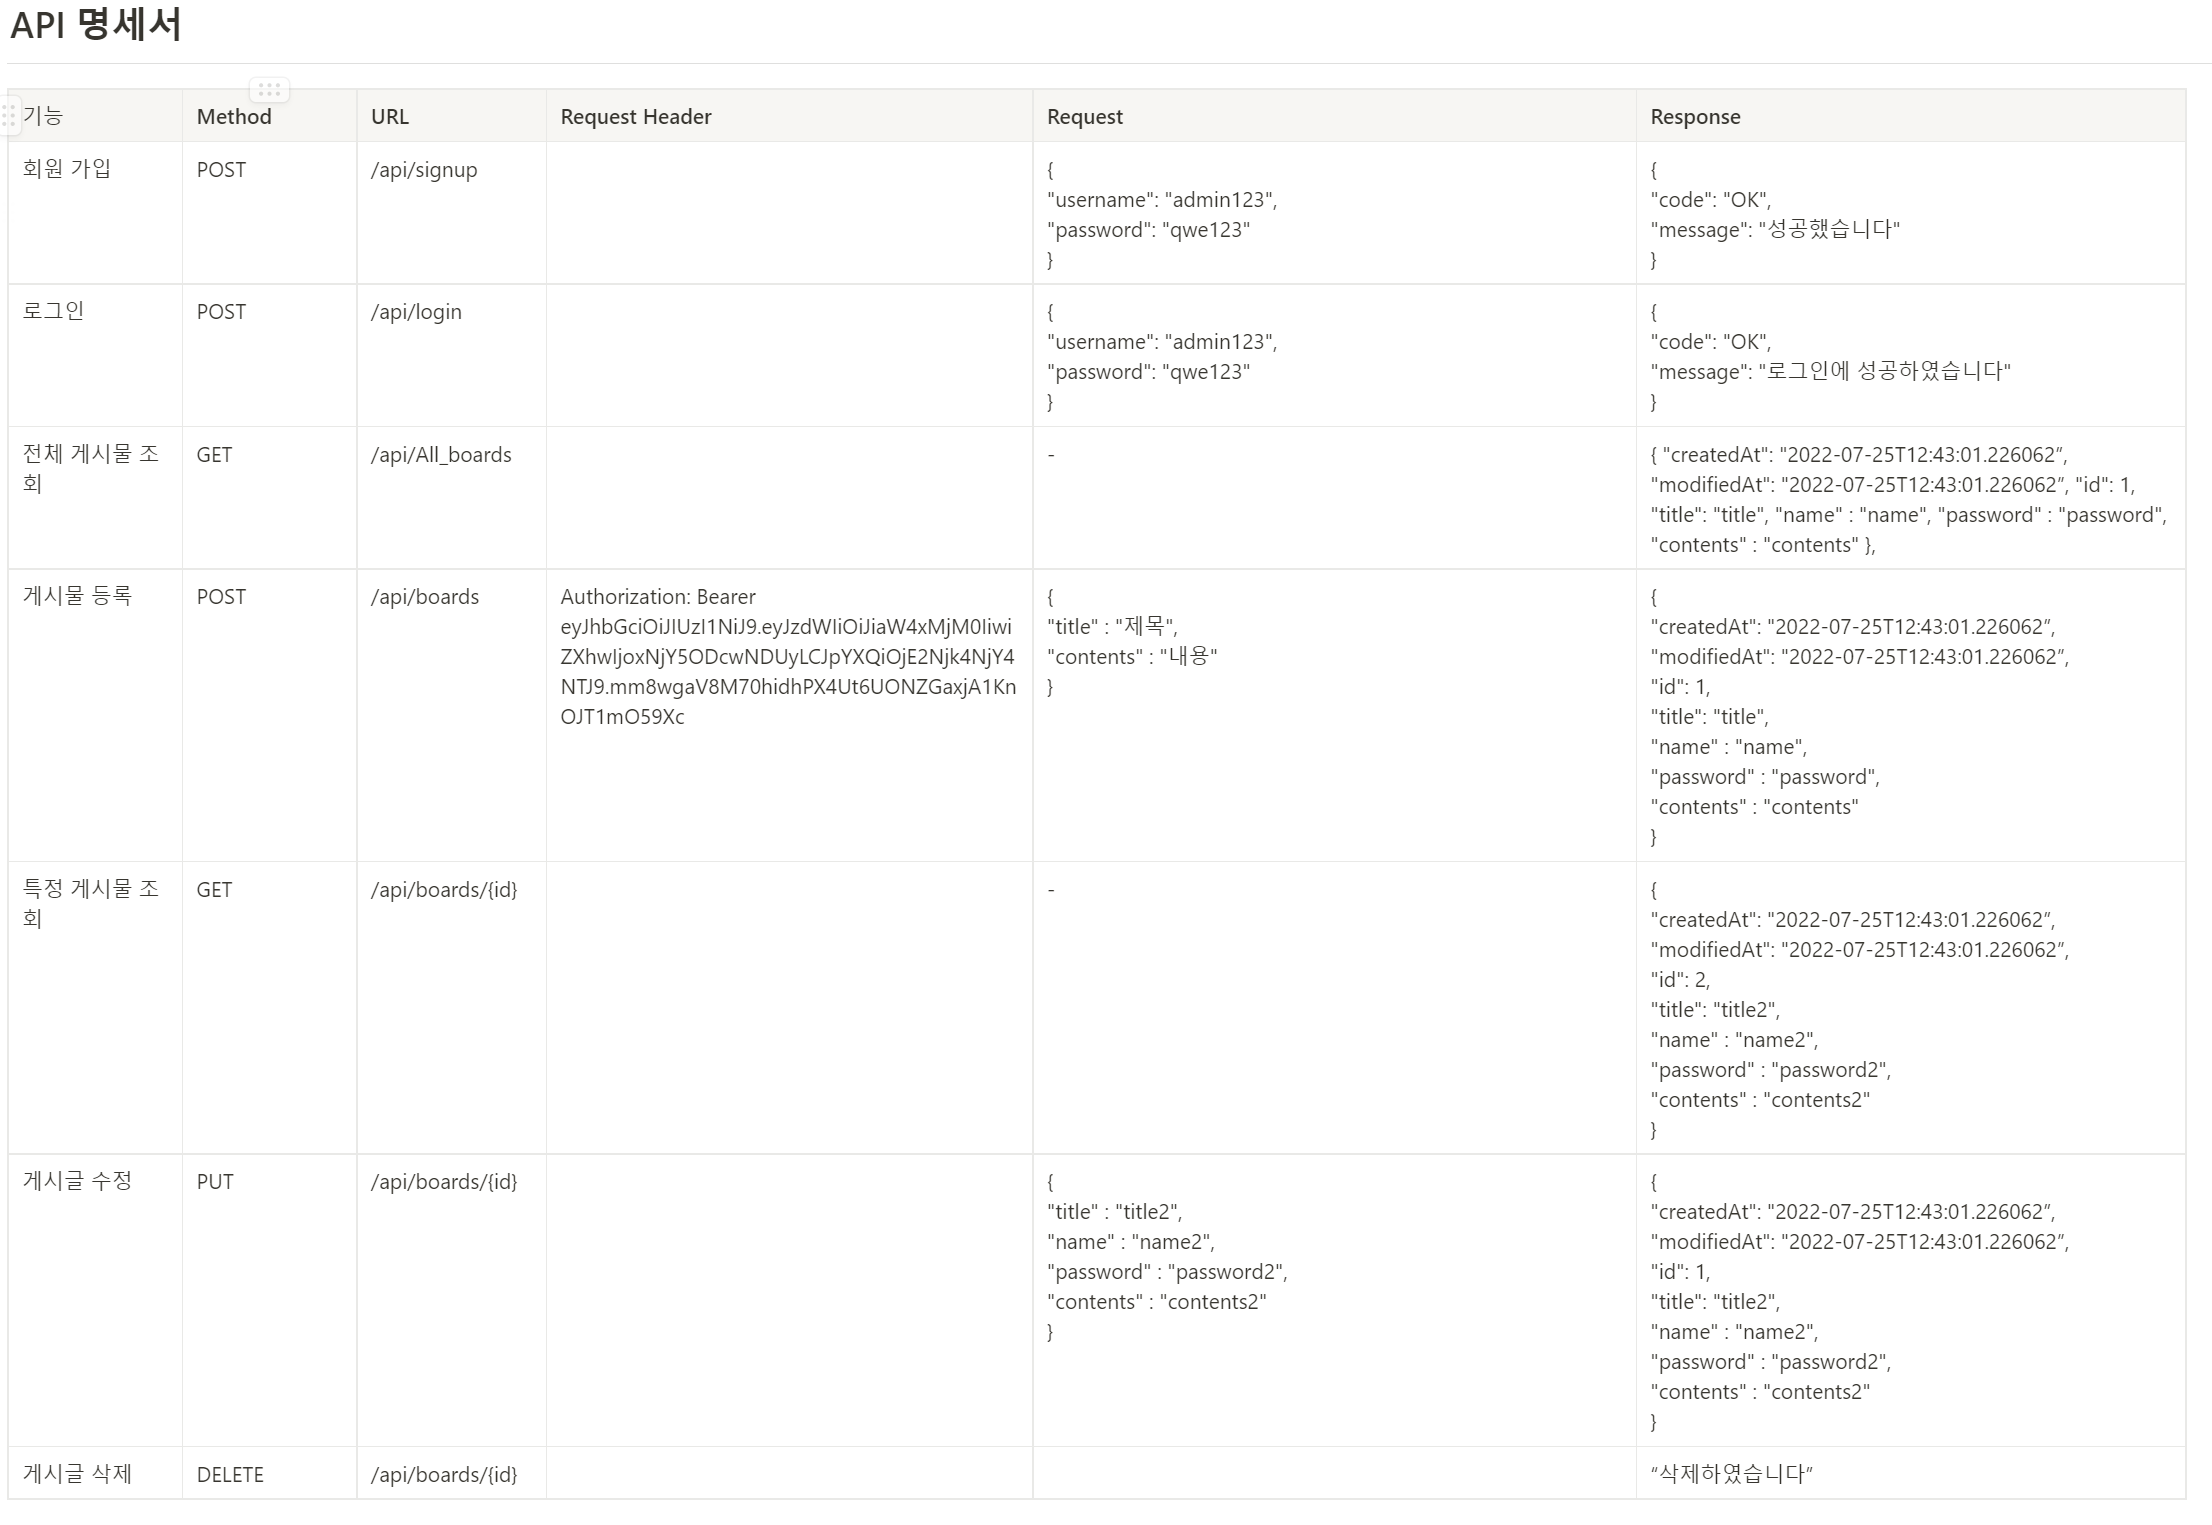
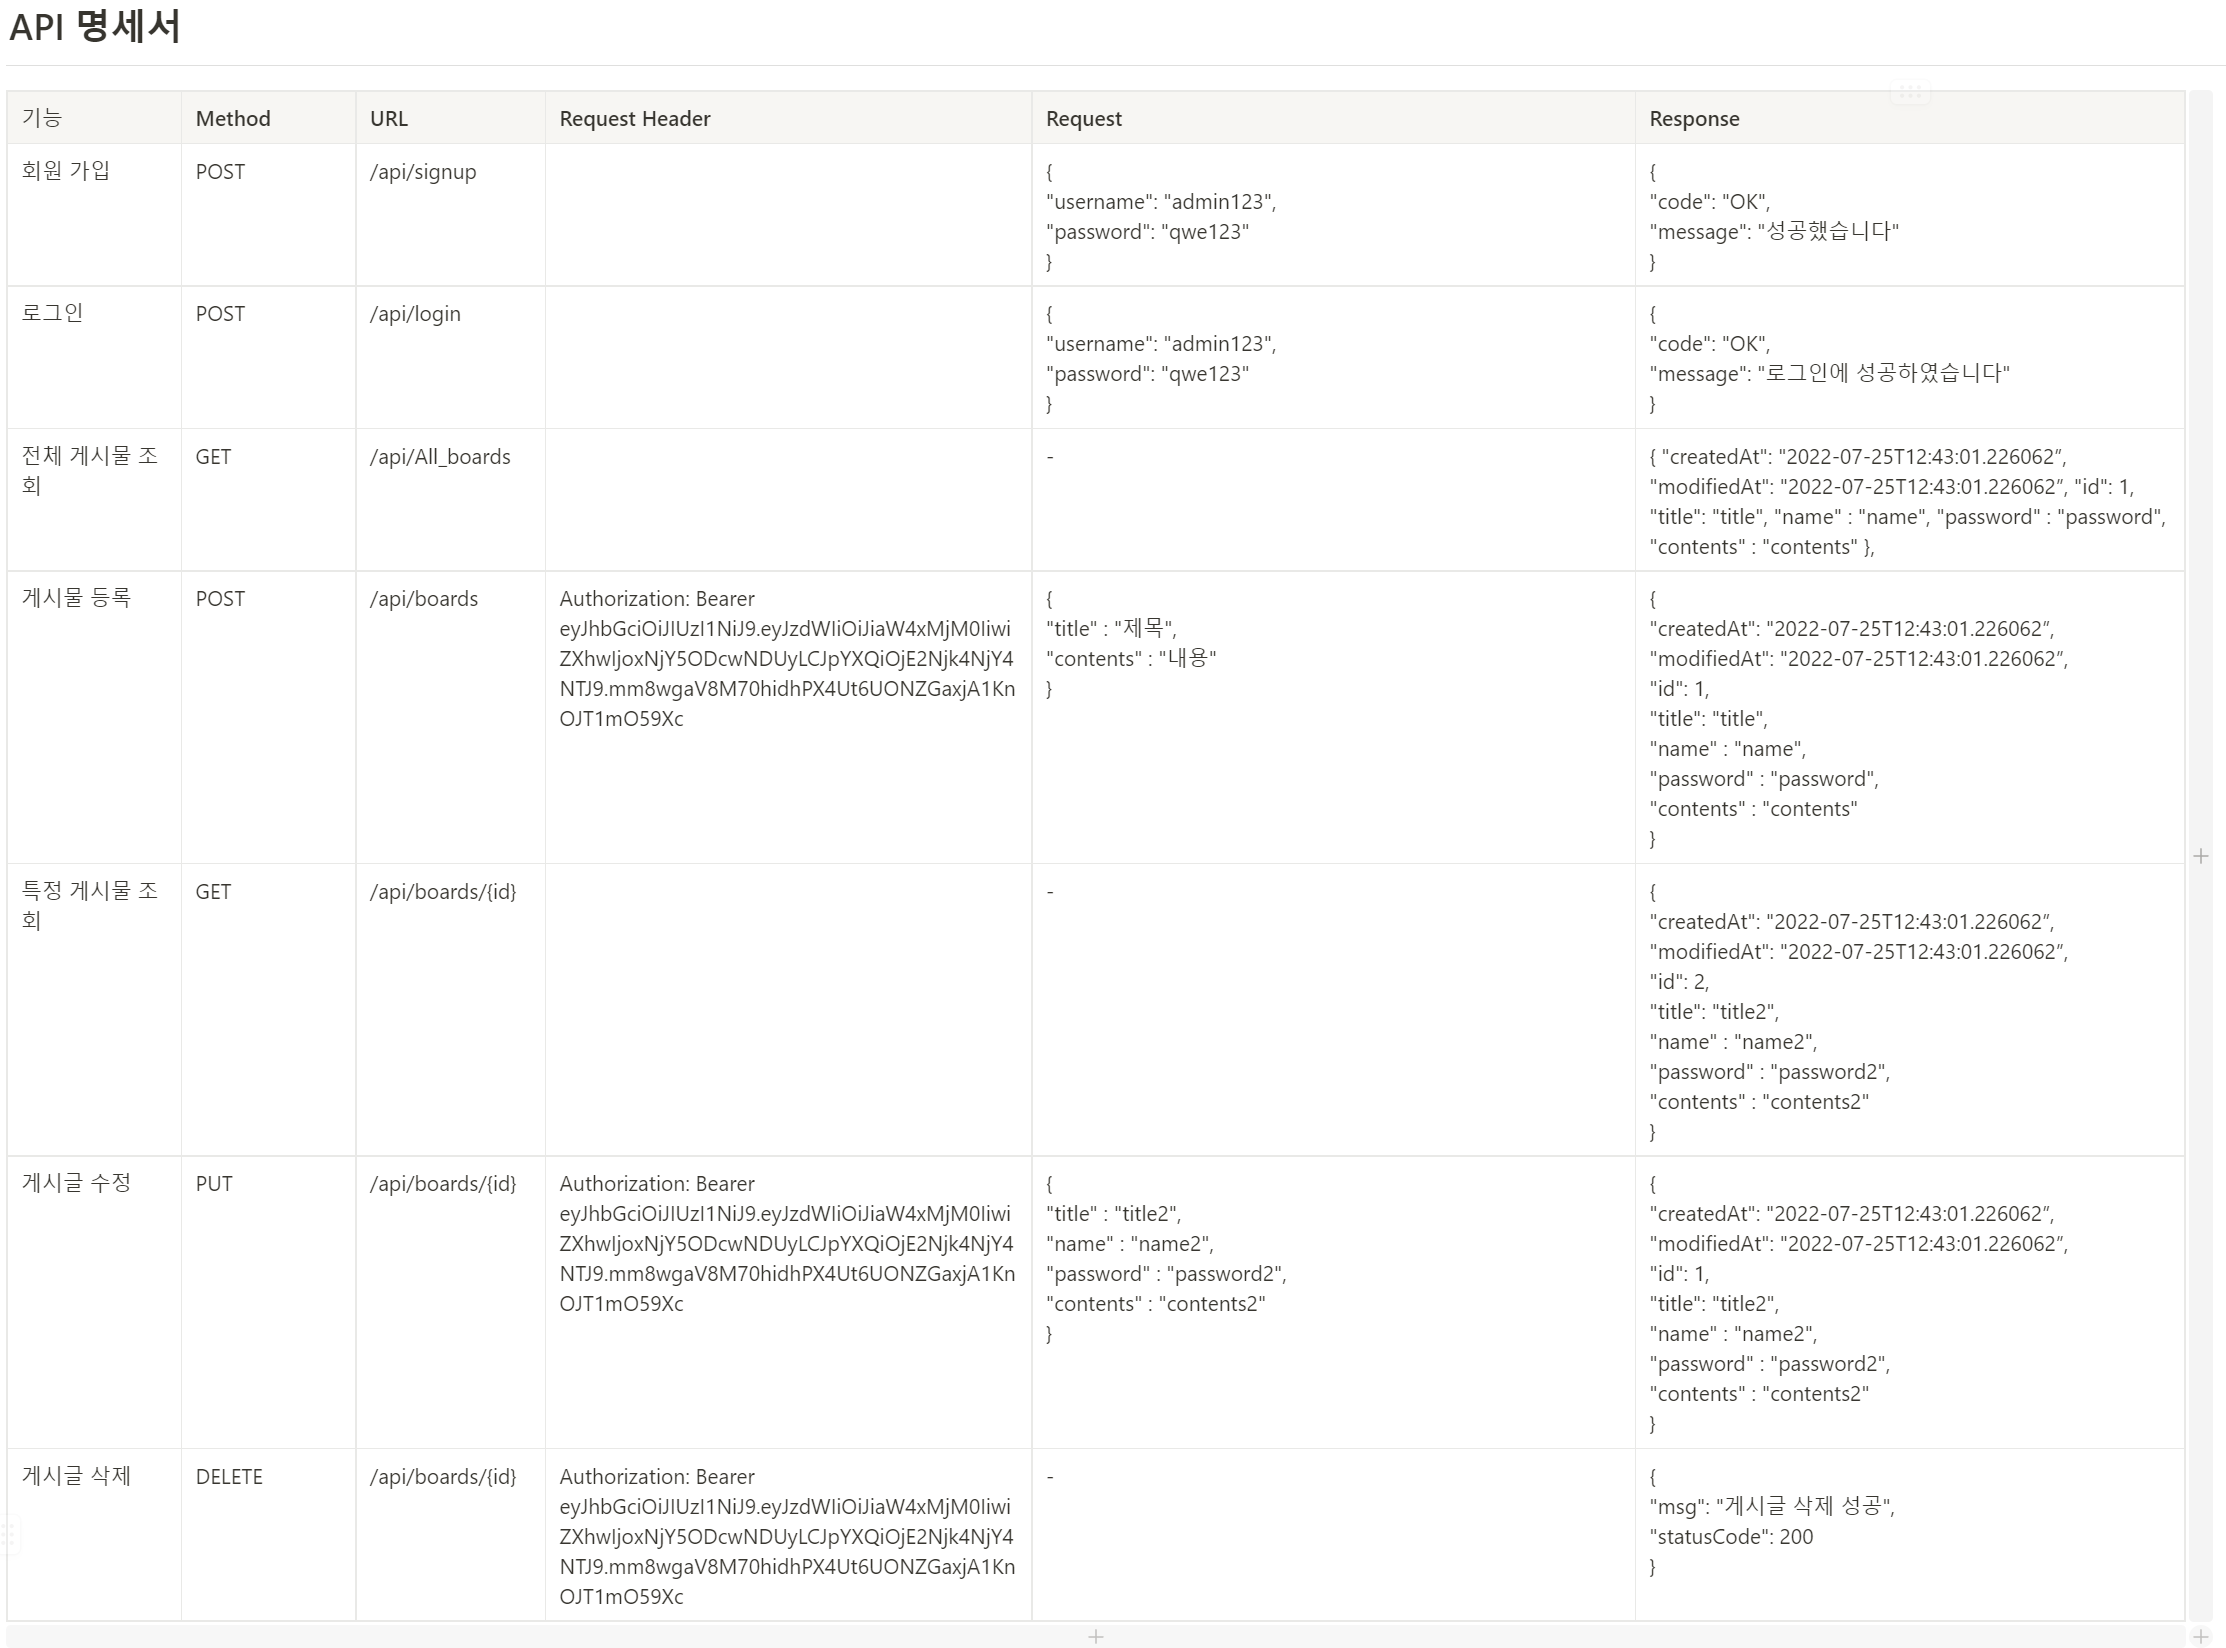
Fix : API 정정2, Delete 반환 값 정정

diff --git a/src/main/java/com/personal/homework_second/service/BoardService.java b/src/main/java/com/personal/homework_second/service/BoardService.java
@@ -113,12 +113,12 @@ public class BoardService {
     }
 
     @Transactional
-    public String delete(Long id, HttpServletRequest request) {
+    public BoardDeleteDto delete(Long id, HttpServletRequest request) {
         // Request 에서 Token 가져오기
         String token = jwtUtil.resolveToken(request);
         Claims claims;
 
-        BoardDeleteDto abs = new BoardDeleteDto();
+
         // 토큰이 있는 경우에만 게시판 삭제
         if (token != null) {
             if (jwtUtil.validateToken(token)) {
@@ -137,7 +137,7 @@ public class BoardService {
             );
 
             boardRepository.deleteById(id);
-            return abs.getSuccess();
+            return new BoardDeleteDto();
         } else {
             return null;
         }

diff --git a/src/main/java/com/personal/homework_second/controller/BoardController.java b/src/main/java/com/personal/homework_second/controller/BoardController.java
@@ -1,5 +1,6 @@
 package com.personal.homework_second.controller;
 
+import com.personal.homework_second.dto.BoardDeleteDto;
 import com.personal.homework_second.dto.BoardRequestDto;
 import com.personal.homework_second.dto.BoardResponseDto;
 import com.personal.homework_second.service.BoardService;
@@ -47,7 +48,7 @@ public class BoardController {
 
     // Delete 방식으로 선택한 게시글 삭제 API
     @DeleteMapping("/boards/{id}")
-    public String deleteBoard(@PathVariable Long id, HttpServletRequest request) {
+    public BoardDeleteDto deleteBoard(@PathVariable Long id, HttpServletRequest request) {
         return boardService.delete(id, request);
     }
 

diff --git a/src/main/java/com/personal/homework_second/dto/BoardDeleteDto.java b/src/main/java/com/personal/homework_second/dto/BoardDeleteDto.java
@@ -2,13 +2,16 @@ package com.personal.homework_second.dto;
 
 
 public class BoardDeleteDto {
-    private String success;
 
+    private String msg = "게시글 삭제 성공";
+    private int statusCode = 200;
     public BoardDeleteDto(){
-        this.success = "삭제하였습니다";
     }
 
-    public String getSuccess(){
-        return success;
+    public String getMsg(){
+        return msg;
+    }
+    public int getStatusCode(){
+        return statusCode;
     }
 }
